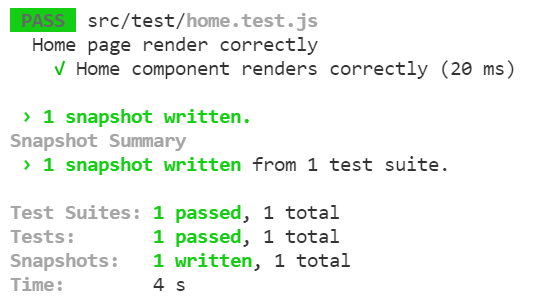
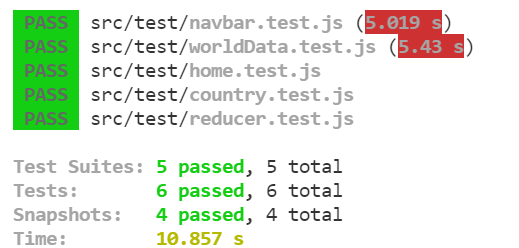
Add reducer test

Changed region(s): [[0.0, 0.0, 0.9249, 0.5927], [0.0, 0.6492, 0.6782, 0.9879], [0.2775, 0.9315, 0.4933, 0.9879]]

diff --git a/src/test/reducer.test.js b/src/test/reducer.test.js
@@ -1,0 +1,55 @@
+import reducer from '../redux/home';
+
+const mockStore = {
+  allCovid: {
+    covidCountries: [
+      {
+        allDeaths: 7234,
+        allRegions: [],
+        confirmedCases: 155627,
+        id: 'afghanistan',
+        name: 'Afghanistan',
+      },
+    ],
+  },
+};
+
+describe('Test', () => {
+  test('Initial State', () => {
+    expect(reducer(undefined, {})).toEqual([]);
+  });
+});
+
+describe('Mock Countries Reducer', () => {
+  test('Test Countries Reducer With Mock Data', () => {
+    const FETCH_COUNTRIES = 'covid19-metrics-app/Home/FETCH_COUNTRIES';
+    const store = mockStore;
+    const action = {
+      type: FETCH_COUNTRIES,
+      payload: {
+        covidCountries: [
+          {
+            allDeaths: 7234,
+            allRegions: [],
+            confirmedCases: 155627,
+            id: 'afghanistan',
+            name: 'Afghanistan',
+          },
+        ],
+        total: 555536,
+      },
+    };
+    expect(reducer(store.allCovid, action)).toEqual({
+      covidCountries: [
+        {
+          allDeaths: 7234,
+          allRegions: [],
+          confirmedCases: 155627,
+          id: 'afghanistan',
+          name: 'Afghanistan',
+        },
+      ],
+      total: 555536,
+    });
+  });
+});

diff --git a/src/test/worldData.test.js b/src/test/worldData.test.js
@@ -1,0 +1,21 @@
+import React from 'react';
+import renderer from 'react-test-renderer';
+import { BrowserRouter as Router } from 'react-router-dom';
+import { Provider } from 'react-redux';
+import store from '../redux/configStore';
+import WorldData from '../components/WorldData';
+
+describe('Home page render correctly', () => {
+  test('Home component renders correctly', () => {
+    const tree = renderer
+      .create(
+        <Router>
+          <Provider store={store}>
+            <WorldData />
+          </Provider>
+        </Router>,
+      )
+      .toJSON();
+    expect(tree).toMatchSnapshot();
+  });
+});

diff --git a/src/test/country.test.js b/src/test/country.test.js
@@ -1,0 +1,21 @@
+import React from 'react';
+import renderer from 'react-test-renderer';
+import { BrowserRouter as Router } from 'react-router-dom';
+import { Provider } from 'react-redux';
+import Country from '../components/Country';
+import store from '../redux/configStore';
+
+describe('Country component', () => {
+  it('Country renders correctly', () => {
+    const tree = renderer
+      .create(
+        <Router>
+          <Provider store={store}>
+            <Country />
+          </Provider>
+        </Router>,
+      )
+      .toJSON();
+    expect(tree).toMatchSnapshot();
+  });
+});

diff --git a/src/test/navbar.test.js b/src/test/navbar.test.js
@@ -1,0 +1,16 @@
+import React from 'react';
+import renderer from 'react-test-renderer';
+import { NavLink, BrowserRouter as Router } from 'react-router-dom';
+
+describe('Component test snapshot', () => {
+  it('Router renders correctly', () => {
+    const tree = renderer
+      .create(
+        <Router>
+          <NavLink to="/"></NavLink>
+        </Router>,
+      )
+      .toJSON();
+    expect(tree).toMatchSnapshot();
+  });
+});

diff --git a/src/components/Country.js b/src/components/Country.js
@@ -1,5 +1,4 @@
 import React from 'react';
-import PropTypes from 'prop-types';
 import { FaArrowCircleRight } from 'react-icons/fa';
 
 const Country = ({ name, confirmedCases }) => (
@@ -16,10 +15,5 @@ const Country = ({ name, confirmedCases }) => (
     </div>
   </li>
 );
-
-Country.propTypes = {
-  name: PropTypes.string.isRequired,
-  confirmedCases: PropTypes.number.isRequired,
-};
 
 export default Country;
